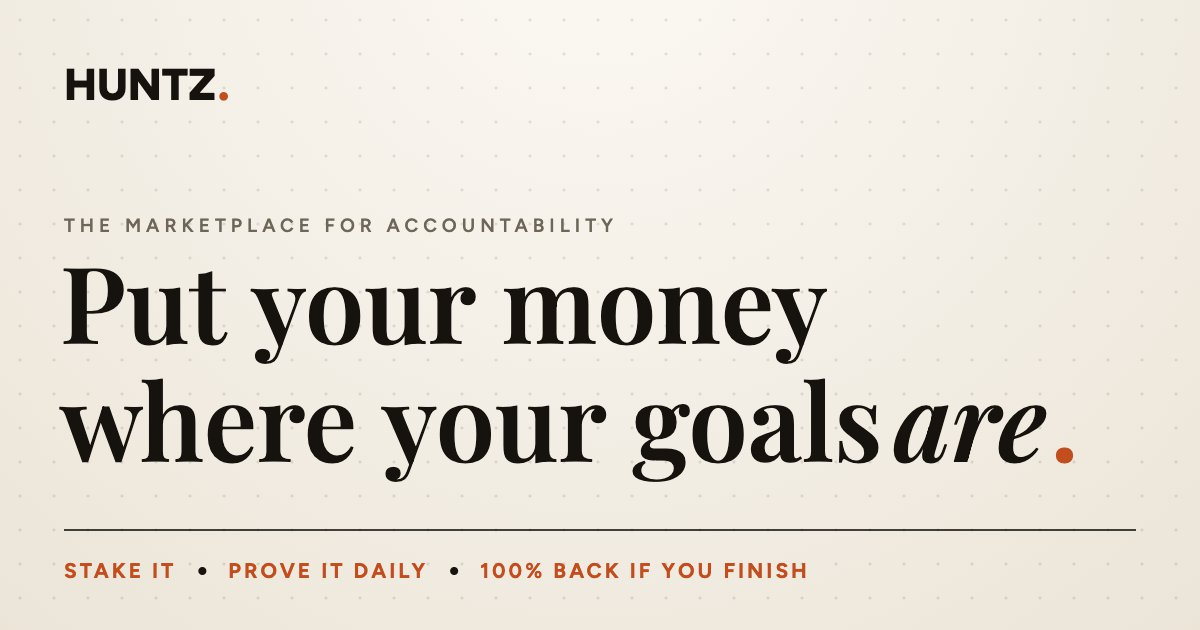
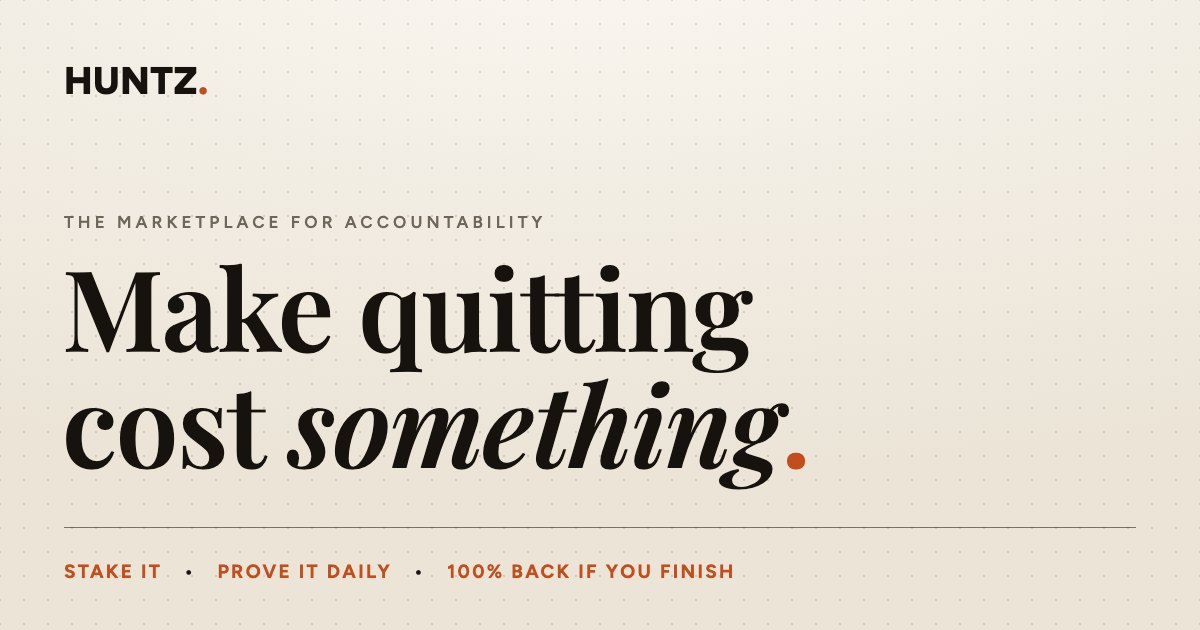
Share card shows the new hero: "Make quitting cost something."
The link preview (og-image.jpg) still carried the old "Put your money where
your goals are." headline. Rebuilt at 1200x630 from the site's own embedded
fonts and colours, same layout. Every og:image and twitter:image link now
carries ?v=2 so apps that cache by image URL fetch the new card; the about.html
sha256 pin is updated for that one-line change.

diff --git a/blog/best-accountability-apps-2026.html b/blog/best-accountability-apps-2026.html
@@ -11,13 +11,13 @@
 <meta property="og:description" content="Trackers record what you did. Accountability gives you a reason to do it. A look at seven accountability apps in 2026 and which one fits the way you actually quit.">
 <meta property="og:type" content="article">
 <meta property="og:url" content="https://www.huntz.ai/blog/best-accountability-apps-2026">
-<meta property="og:image" content="https://www.huntz.ai/og-image.jpg">
+<meta property="og:image" content="https://www.huntz.ai/og-image.jpg?v=2">
 <meta property="article:published_time" content="2026-08-21">
 <meta property="article:author" content="Huntz Team">
 <meta name="twitter:card" content="summary_large_image">
 <meta name="twitter:title" content="The Best Accountability Apps in 2026 | Huntz">
 <meta name="twitter:description" content="Trackers record what you did. Accountability gives you a reason to do it. A look at seven accountability apps in 2026 and which one fits the way you actually quit.">
-<meta name="twitter:image" content="https://www.huntz.ai/og-image.jpg">
+<meta name="twitter:image" content="https://www.huntz.ai/og-image.jpg?v=2">
 <meta name="apple-itunes-app" content="app-id=6802558635">
 <link rel="icon" href="/favicon.ico" sizes="16x16 32x32 48x48">
 <link rel="icon" href="/favicon-48x48.png" type="image/png" sizes="48x48">
@@ -25,7 +25,7 @@
 <link rel="icon" href="/icon-512.png" type="image/png" sizes="512x512">
 <link rel="apple-touch-icon" href="/apple-touch-icon.png" sizes="180x180">
 <script type="application/ld+json">{"@context":"https://schema.org","@type":"BreadcrumbList","itemListElement":[{"@type":"ListItem","position":1,"name":"Huntz","item":"https://www.huntz.ai/"},{"@type":"ListItem","position":2,"name":"Blog","item":"https://www.huntz.ai/blog"},{"@type":"ListItem","position":3,"name":"The Best Accountability Apps in 2026 (And Which One Is Right for You)","item":"https://www.huntz.ai/blog/best-accountability-apps-2026"}]}</script>
-<script type="application/ld+json">{"@context":"https://schema.org","@type":"BlogPosting","headline":"The Best Accountability Apps in 2026 (And Which One Is Right for You)","description":"Trackers record what you did. Accountability gives you a reason to do it. A look at seven accountability apps in 2026 and which one fits the way you actually quit.","datePublished":"2026-08-21","dateModified":"2026-08-21","author":{"@type":"Organization","name":"Huntz Team","url":"https://www.huntz.ai/"},"publisher":{"@type":"Organization","name":"Huntz","logo":{"@type":"ImageObject","url":"https://www.huntz.ai/icon-512.png"}},"image":"https://www.huntz.ai/og-image.jpg","mainEntityOfPage":{"@type":"WebPage","@id":"https://www.huntz.ai/blog/best-accountability-apps-2026"},"url":"https://www.huntz.ai/blog/best-accountability-apps-2026","inLanguage":"en"}</script>
+<script type="application/ld+json">{"@context":"https://schema.org","@type":"BlogPosting","headline":"The Best Accountability Apps in 2026 (And Which One Is Right for You)","description":"Trackers record what you did. Accountability gives you a reason to do it. A look at seven accountability apps in 2026 and which one fits the way you actually quit.","datePublished":"2026-08-21","dateModified":"2026-08-21","author":{"@type":"Organization","name":"Huntz Team","url":"https://www.huntz.ai/"},"publisher":{"@type":"Organization","name":"Huntz","logo":{"@type":"ImageObject","url":"https://www.huntz.ai/icon-512.png"}},"image":"https://www.huntz.ai/og-image.jpg?v=2","mainEntityOfPage":{"@type":"WebPage","@id":"https://www.huntz.ai/blog/best-accountability-apps-2026"},"url":"https://www.huntz.ai/blog/best-accountability-apps-2026","inLanguage":"en"}</script>
 <link rel="stylesheet" href="/assets/fonts.601bc53b.css">
 <style>
 html{ overflow-x:hidden; overflow-x:clip; overscroll-behavior-x:none }

diff --git a/blog/why-you-dont-achieve-your-goals.html b/blog/why-you-dont-achieve-your-goals.html
@@ -11,13 +11,13 @@
 <meta property="og:description" content="You probably don't have a goal-setting problem. Five reasons goals quietly disappear, and what a system that survives a bad week actually needs.">
 <meta property="og:type" content="article">
 <meta property="og:url" content="https://www.huntz.ai/blog/why-you-dont-achieve-your-goals">
-<meta property="og:image" content="https://www.huntz.ai/og-image.jpg">
+<meta property="og:image" content="https://www.huntz.ai/og-image.jpg?v=2">
 <meta property="article:published_time" content="2026-08-14">
 <meta property="article:author" content="Huntz Team">
 <meta name="twitter:card" content="summary_large_image">
 <meta name="twitter:title" content="Why You Don't Achieve Your Goals | Huntz">
 <meta name="twitter:description" content="You probably don't have a goal-setting problem. Five reasons goals quietly disappear, and what a system that survives a bad week actually needs.">
-<meta name="twitter:image" content="https://www.huntz.ai/og-image.jpg">
+<meta name="twitter:image" content="https://www.huntz.ai/og-image.jpg?v=2">
 <meta name="apple-itunes-app" content="app-id=6802558635">
 <link rel="icon" href="/favicon.ico" sizes="16x16 32x32 48x48">
 <link rel="icon" href="/favicon-48x48.png" type="image/png" sizes="48x48">
@@ -25,7 +25,7 @@
 <link rel="icon" href="/icon-512.png" type="image/png" sizes="512x512">
 <link rel="apple-touch-icon" href="/apple-touch-icon.png" sizes="180x180">
 <script type="application/ld+json">{"@context":"https://schema.org","@type":"BreadcrumbList","itemListElement":[{"@type":"ListItem","position":1,"name":"Huntz","item":"https://www.huntz.ai/"},{"@type":"ListItem","position":2,"name":"Blog","item":"https://www.huntz.ai/blog"},{"@type":"ListItem","position":3,"name":"Why You Don't Achieve Your Goals (And What Actually Helps)","item":"https://www.huntz.ai/blog/why-you-dont-achieve-your-goals"}]}</script>
-<script type="application/ld+json">{"@context":"https://schema.org","@type":"BlogPosting","headline":"Why You Don't Achieve Your Goals (And What Actually Helps)","description":"You probably don't have a goal-setting problem. Five reasons goals quietly disappear, and what a system that survives a bad week actually needs.","datePublished":"2026-08-14","dateModified":"2026-08-14","author":{"@type":"Organization","name":"Huntz Team","url":"https://www.huntz.ai/"},"publisher":{"@type":"Organization","name":"Huntz","logo":{"@type":"ImageObject","url":"https://www.huntz.ai/icon-512.png"}},"image":"https://www.huntz.ai/og-image.jpg","mainEntityOfPage":{"@type":"WebPage","@id":"https://www.huntz.ai/blog/why-you-dont-achieve-your-goals"},"url":"https://www.huntz.ai/blog/why-you-dont-achieve-your-goals","inLanguage":"en"}</script>
+<script type="application/ld+json">{"@context":"https://schema.org","@type":"BlogPosting","headline":"Why You Don't Achieve Your Goals (And What Actually Helps)","description":"You probably don't have a goal-setting problem. Five reasons goals quietly disappear, and what a system that survives a bad week actually needs.","datePublished":"2026-08-14","dateModified":"2026-08-14","author":{"@type":"Organization","name":"Huntz Team","url":"https://www.huntz.ai/"},"publisher":{"@type":"Organization","name":"Huntz","logo":{"@type":"ImageObject","url":"https://www.huntz.ai/icon-512.png"}},"image":"https://www.huntz.ai/og-image.jpg?v=2","mainEntityOfPage":{"@type":"WebPage","@id":"https://www.huntz.ai/blog/why-you-dont-achieve-your-goals"},"url":"https://www.huntz.ai/blog/why-you-dont-achieve-your-goals","inLanguage":"en"}</script>
 <link rel="stylesheet" href="/assets/fonts.601bc53b.css">
 <style>
 html{ overflow-x:hidden; overflow-x:clip; overscroll-behavior-x:none }

diff --git a/index.html b/index.html
@@ -10,13 +10,13 @@
 <meta property="og:description" content="Pick a goal. Put $20 to $500 on the line. Prove it daily. Finish and get it all back, plus a cut of what the quitters lost.">
 <meta property="og:type" content="website">
 <meta property="og:url" content="https://www.huntz.ai/">
-<meta property="og:image" content="https://www.huntz.ai/og-image.jpg">
+<meta property="og:image" content="https://www.huntz.ai/og-image.jpg?v=2">
 <meta property="og:image:width" content="1200">
 <meta property="og:image:height" content="630">
 <meta name="twitter:card" content="summary_large_image">
 <meta name="twitter:title" content="Huntz: Become someone who finishes.">
 <meta name="twitter:description" content="Pick a goal. Put $20 to $500 on the line. Prove it daily. Finish and get it all back, plus a cut of what the quitters lost.">
-<meta name="twitter:image" content="https://www.huntz.ai/og-image.jpg">
+<meta name="twitter:image" content="https://www.huntz.ai/og-image.jpg?v=2">
 <meta name="apple-itunes-app" content="app-id=6802558635">
 <link rel="icon" href="/favicon.ico" sizes="16x16 32x32 48x48">
 <link rel="icon" href="/favicon-48x48.png" type="image/png" sizes="48x48">

diff --git a/test/hunt-preview.test.js b/test/hunt-preview.test.js
@@ -321,7 +321,7 @@ test('no coverArtUrl leaves the generic og:image untouched', async () => {
   const server = await startServer({ fetchImpl: async () => jsonResponse(200, { ...VALID_DETAIL, coverArtUrl: null }) });
   try {
     const r = await server.get('/hunt/read-12-books');
-    assert.match(r.text, /<meta property="og:image" content="https:\/\/www\.huntz\.ai\/og-image\.jpg">/);
+    assert.match(r.text, /<meta property="og:image" content="https:\/\/www\.huntz\.ai\/og-image\.jpg\?v=2">/);
   } finally {
     await server.close();
   }
@@ -334,7 +334,7 @@ test('a protocol-relative coverArtUrl cannot smuggle in a foreign og:image host'
   try {
     const r = await server.get('/hunt/read-12-books');
     assert.doesNotMatch(r.text, /evil\.example/);
-    assert.match(r.text, /<meta property="og:image" content="https:\/\/www\.huntz\.ai\/og-image\.jpg">/);
+    assert.match(r.text, /<meta property="og:image" content="https:\/\/www\.huntz\.ai\/og-image\.jpg\?v=2">/);
   } finally {
     await server.close();
   }

diff --git a/blog.html b/blog.html
@@ -11,7 +11,7 @@
 <meta property="og:description" content="Notes on accountability from the team building Huntz: why goals fall apart, what holds them together, and how the accountability apps compare.">
 <meta property="og:type" content="website">
 <meta property="og:url" content="https://www.huntz.ai/blog">
-<meta property="og:image" content="https://www.huntz.ai/og-image.jpg">
+<meta property="og:image" content="https://www.huntz.ai/og-image.jpg?v=2">
 <meta name="twitter:card" content="summary_large_image">
 <meta name="twitter:title" content="Huntz Blog | Accountability, Goals and Follow-Through">
 <meta name="twitter:description" content="Notes on accountability from the team building Huntz: why goals fall apart, what holds them together, and how the accountability apps compare.">

diff --git a/build/article-page.html b/build/article-page.html
@@ -11,13 +11,13 @@
 <meta property="og:description" content="{{DESC}}">
 <meta property="og:type" content="article">
 <meta property="og:url" content="{{CANONICAL}}">
-<meta property="og:image" content="{{SITE}}/og-image.jpg">
+<meta property="og:image" content="{{SITE}}/og-image.jpg?v=2">
 <meta property="article:published_time" content="{{PUBLISHED_ISO}}">
 <meta property="article:author" content="{{AUTHOR}}">
 <meta name="twitter:card" content="summary_large_image">
 <meta name="twitter:title" content="{{TITLE_TAG}}">
 <meta name="twitter:description" content="{{DESC}}">
-<meta name="twitter:image" content="{{SITE}}/og-image.jpg">
+<meta name="twitter:image" content="{{SITE}}/og-image.jpg?v=2">
 <meta name="apple-itunes-app" content="app-id=6802558635">
 {{ICONS}}
 {{BREADCRUMB_LD}}

diff --git a/accountability-challenges.html b/accountability-challenges.html
@@ -11,7 +11,7 @@
 <meta property="og:description" content="What accountability challenges are, what good rules look like, and how Huntz runs them with real stakes and published rules. Available now on the App Store.">
 <meta property="og:type" content="website">
 <meta property="og:url" content="https://www.huntz.ai/accountability-challenges">
-<meta property="og:image" content="https://www.huntz.ai/og-image.jpg">
+<meta property="og:image" content="https://www.huntz.ai/og-image.jpg?v=2">
 <meta name="twitter:card" content="summary_large_image">
 <meta name="apple-itunes-app" content="app-id=6802558635">
 <link rel="icon" href="/favicon.ico" sizes="16x16 32x32 48x48">

diff --git a/about.html b/about.html
@@ -11,7 +11,7 @@
 <meta property="og:description" content="Huntz is the marketplace for accountability: stake-backed challenges with rules published up front. Built in Oakland by Huntz, Inc. Available now on the App Store.">
 <meta property="og:type" content="website">
 <meta property="og:url" content="https://www.huntz.ai/about">
-<meta property="og:image" content="https://www.huntz.ai/og-image.jpg">
+<meta property="og:image" content="https://www.huntz.ai/og-image.jpg?v=2">
 <meta name="twitter:card" content="summary_large_image">
 <meta name="apple-itunes-app" content="app-id=6802558635">
 <link rel="icon" href="/favicon.ico" sizes="16x16 32x32 48x48">

diff --git a/api/_lib/hunt-fallback.html b/api/_lib/hunt-fallback.html
@@ -16,7 +16,7 @@
 <meta property="og:description" content="This Hunt invitation opens in the Huntz app. Get Huntz on the App Store, then open your invitation again on your iPhone to see the Hunt and join.">
 <meta property="og:type" content="website">
 <meta property="og:url" content="https://www.huntz.ai/">
-<meta property="og:image" content="https://www.huntz.ai/og-image.jpg">
+<meta property="og:image" content="https://www.huntz.ai/og-image.jpg?v=2">
 <meta name="twitter:card" content="summary_large_image">
 <link rel="icon" href="/favicon.ico" sizes="16x16 32x32 48x48">
 <link rel="icon" href="/favicon-48x48.png" type="image/png" sizes="48x48">

diff --git a/how-it-works.html b/how-it-works.html
@@ -11,7 +11,7 @@
 <meta property="og:description" content="How a Hunt works: rules published before anyone joins, a committed stake, proof on a schedule, finishers recover their stake plus forfeit shares.">
 <meta property="og:type" content="website">
 <meta property="og:url" content="https://www.huntz.ai/how-it-works">
-<meta property="og:image" content="https://www.huntz.ai/og-image.jpg">
+<meta property="og:image" content="https://www.huntz.ai/og-image.jpg?v=2">
 <meta name="twitter:card" content="summary_large_image">
 <meta name="apple-itunes-app" content="app-id=6802558635">
 <link rel="icon" href="/favicon.ico" sizes="16x16 32x32 48x48">

diff --git a/contact.html b/contact.html
@@ -11,7 +11,7 @@
 <meta property="og:description" content="Reach the Huntz team. Questions about accountability challenges, the app, privacy, or partnerships: team@huntz.ai. Based in Oakland, California.">
 <meta property="og:type" content="website">
 <meta property="og:url" content="https://www.huntz.ai/contact">
-<meta property="og:image" content="https://www.huntz.ai/og-image.jpg">
+<meta property="og:image" content="https://www.huntz.ai/og-image.jpg?v=2">
 <meta name="twitter:card" content="summary_large_image">
 <meta name="apple-itunes-app" content="app-id=6802558635">
 <link rel="icon" href="/favicon.ico" sizes="16x16 32x32 48x48">

diff --git a/test/app-store-launch.test.js b/test/app-store-launch.test.js
@@ -674,7 +674,7 @@ test('live: accountability-challenges.html\'s meta description says the app is a
 test('live: about.html is byte-for-byte the committed launched page (sha256 pin)', () => {
   const bytes = fs.readFileSync(path.join(ROOT, 'about.html'));
   const hash = crypto.createHash('sha256').update(bytes).digest('hex');
[2 lines of base64/hex data omitted]
     'about.html changed: the launched (APP_STORE_URL set) state must stay byte-for-byte identical to the committed page');
 });
 
